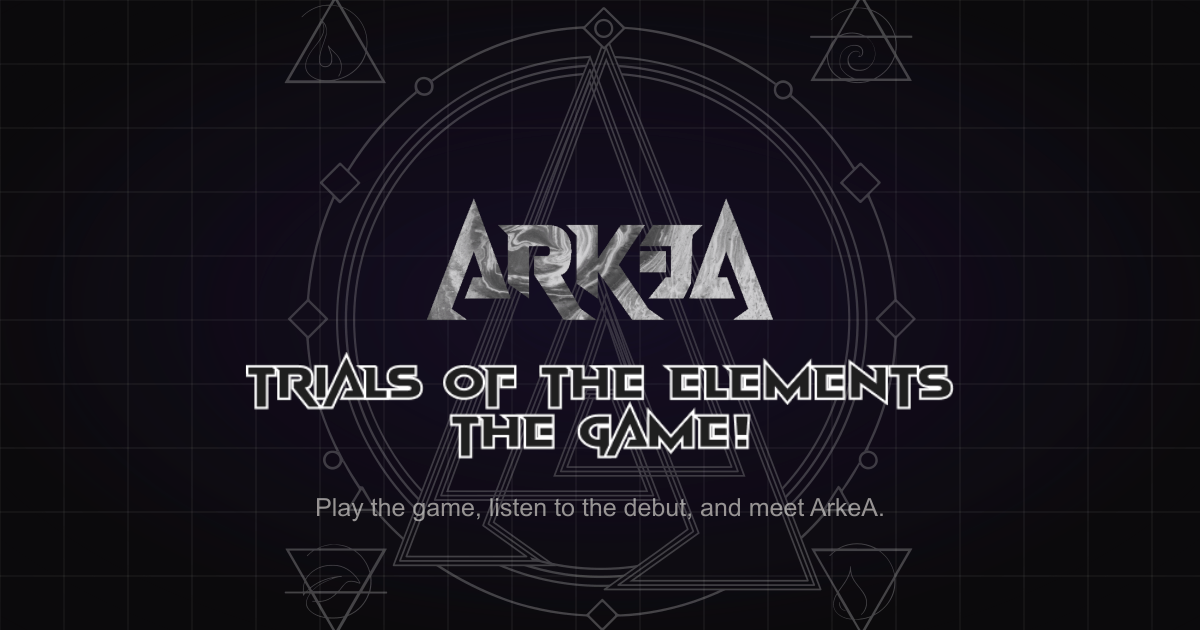
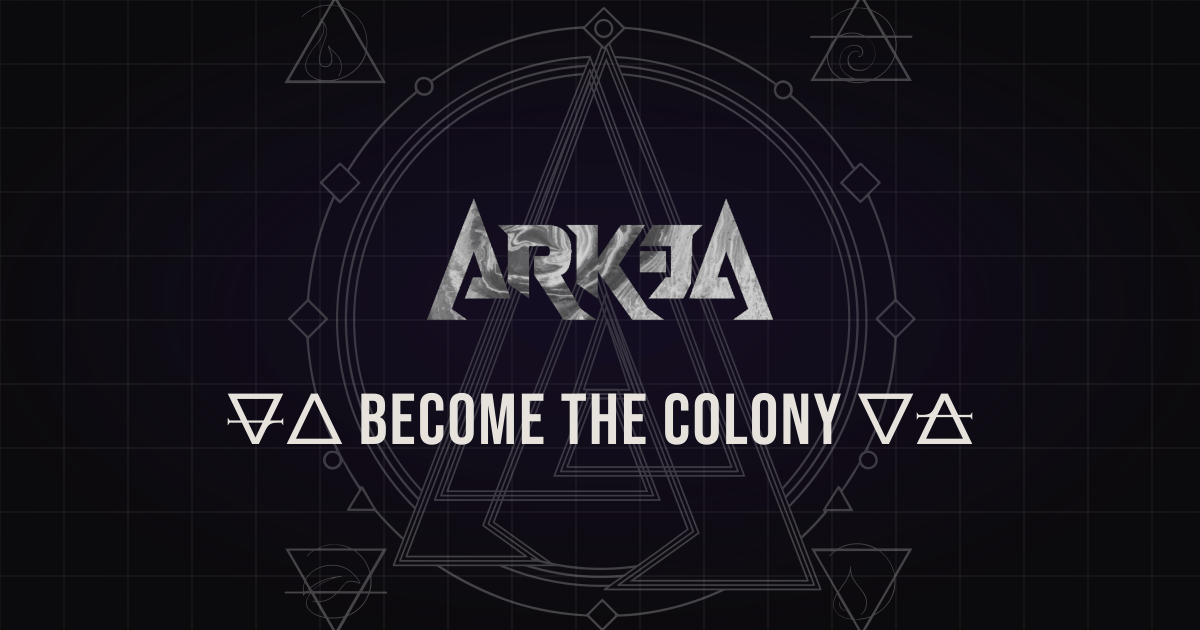
update og image

Changed region(s): [[0.185, 0.573, 0.8017, 0.7238], [0.2467, 0.7841, 0.74, 0.8444]]

diff --git a/components/main/home-page.tsx b/components/main/home-page.tsx
@@ -25,7 +25,7 @@ export const HomePage = () => {
       <div className="px-4 sm:px-6 md:px-10">
         <GameSection />
 
-        <InfoSection id="about" index="01" title="About">
+        <InfoSection id="about" index="" title="About">
           <AboutContent />
         </InfoSection>
 
@@ -33,7 +33,7 @@ export const HomePage = () => {
           <MusicContent />
         </InfoSection> */}
 
-        <InfoSection id="merch" index="03" title="Merch">
+        <InfoSection id="merch" index="" title="Merch">
           <MerchContent />
         </InfoSection>
       </div>

diff --git a/constants/index.ts b/constants/index.ts
@@ -9,7 +9,7 @@ export const OG_IMAGE = {
   url: '/og-image.png',
   width: 1200,
   height: 630,
-  alt: 'ArkeA - Trials Of The Elements',
+  alt: 'ArkeA - Become The Colony',
 } as const
 
 export const OG_IMAGES = [OG_IMAGE]
